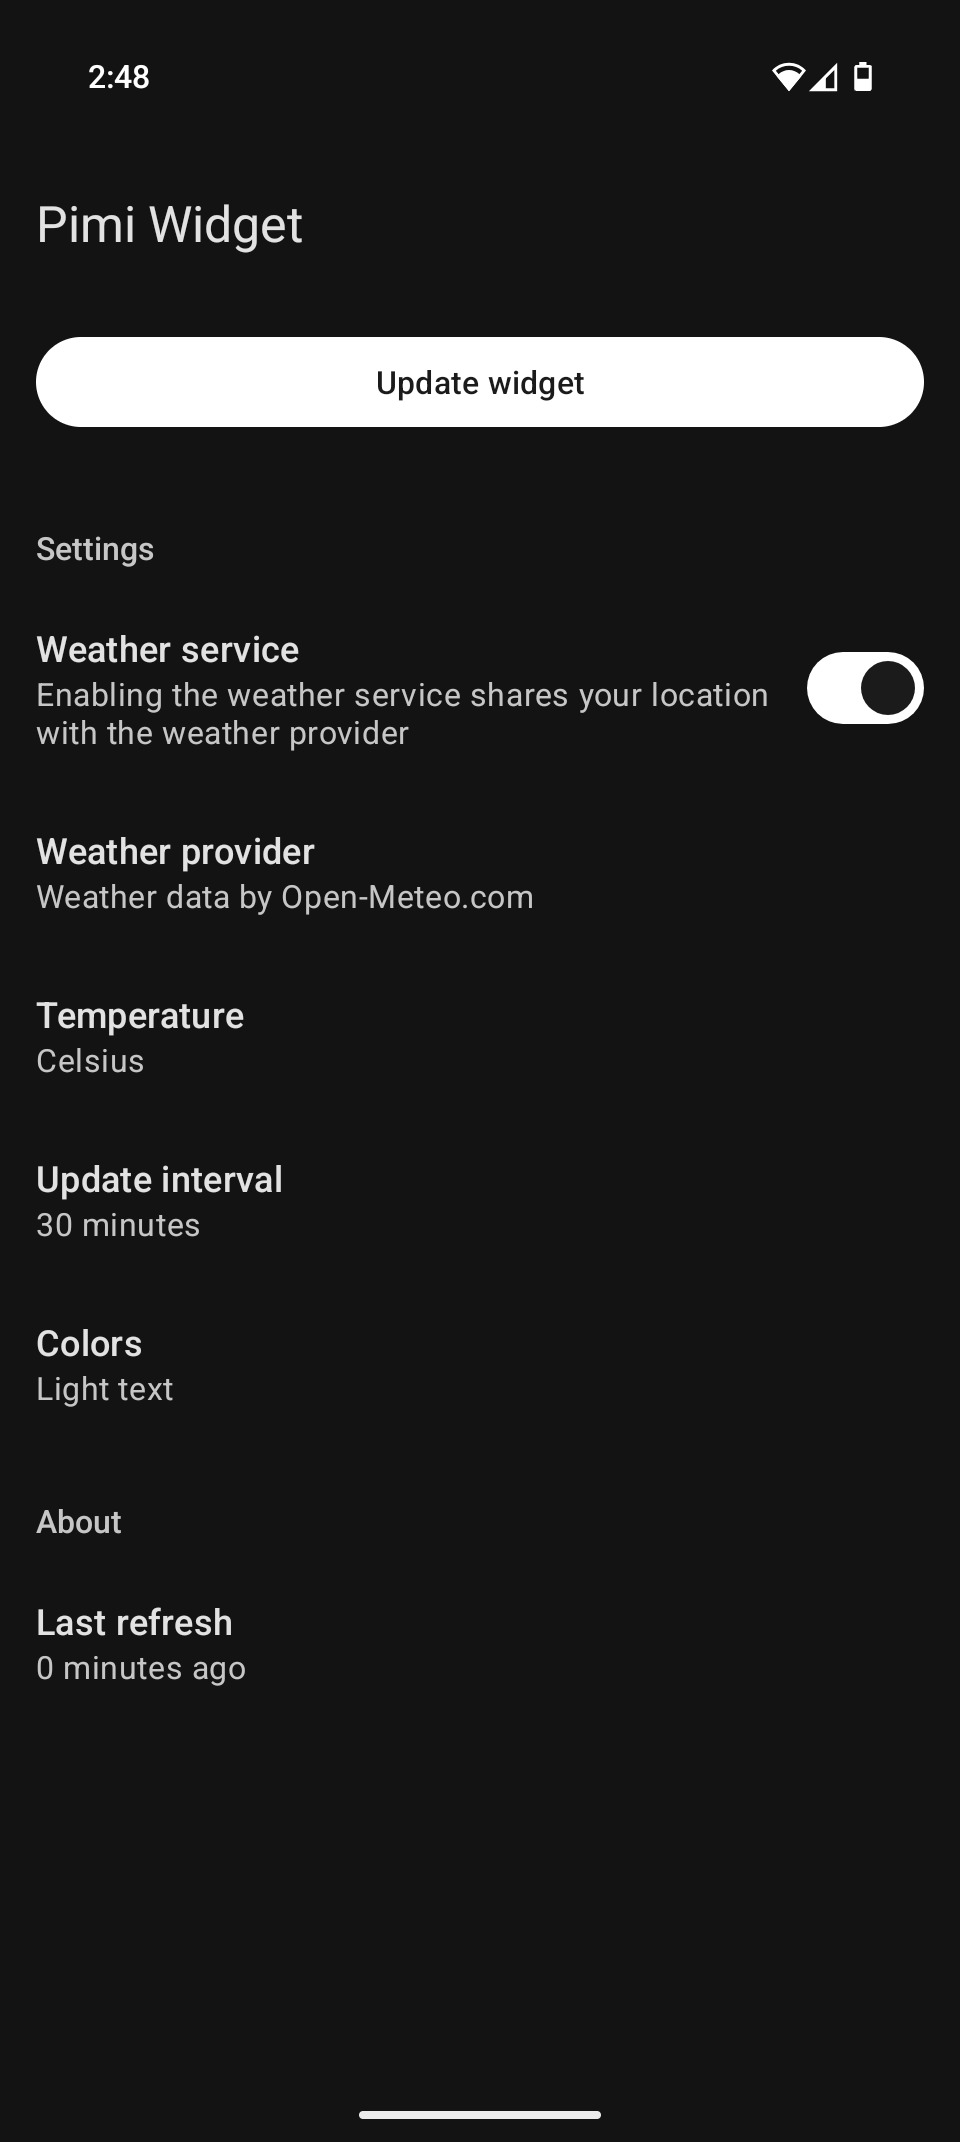
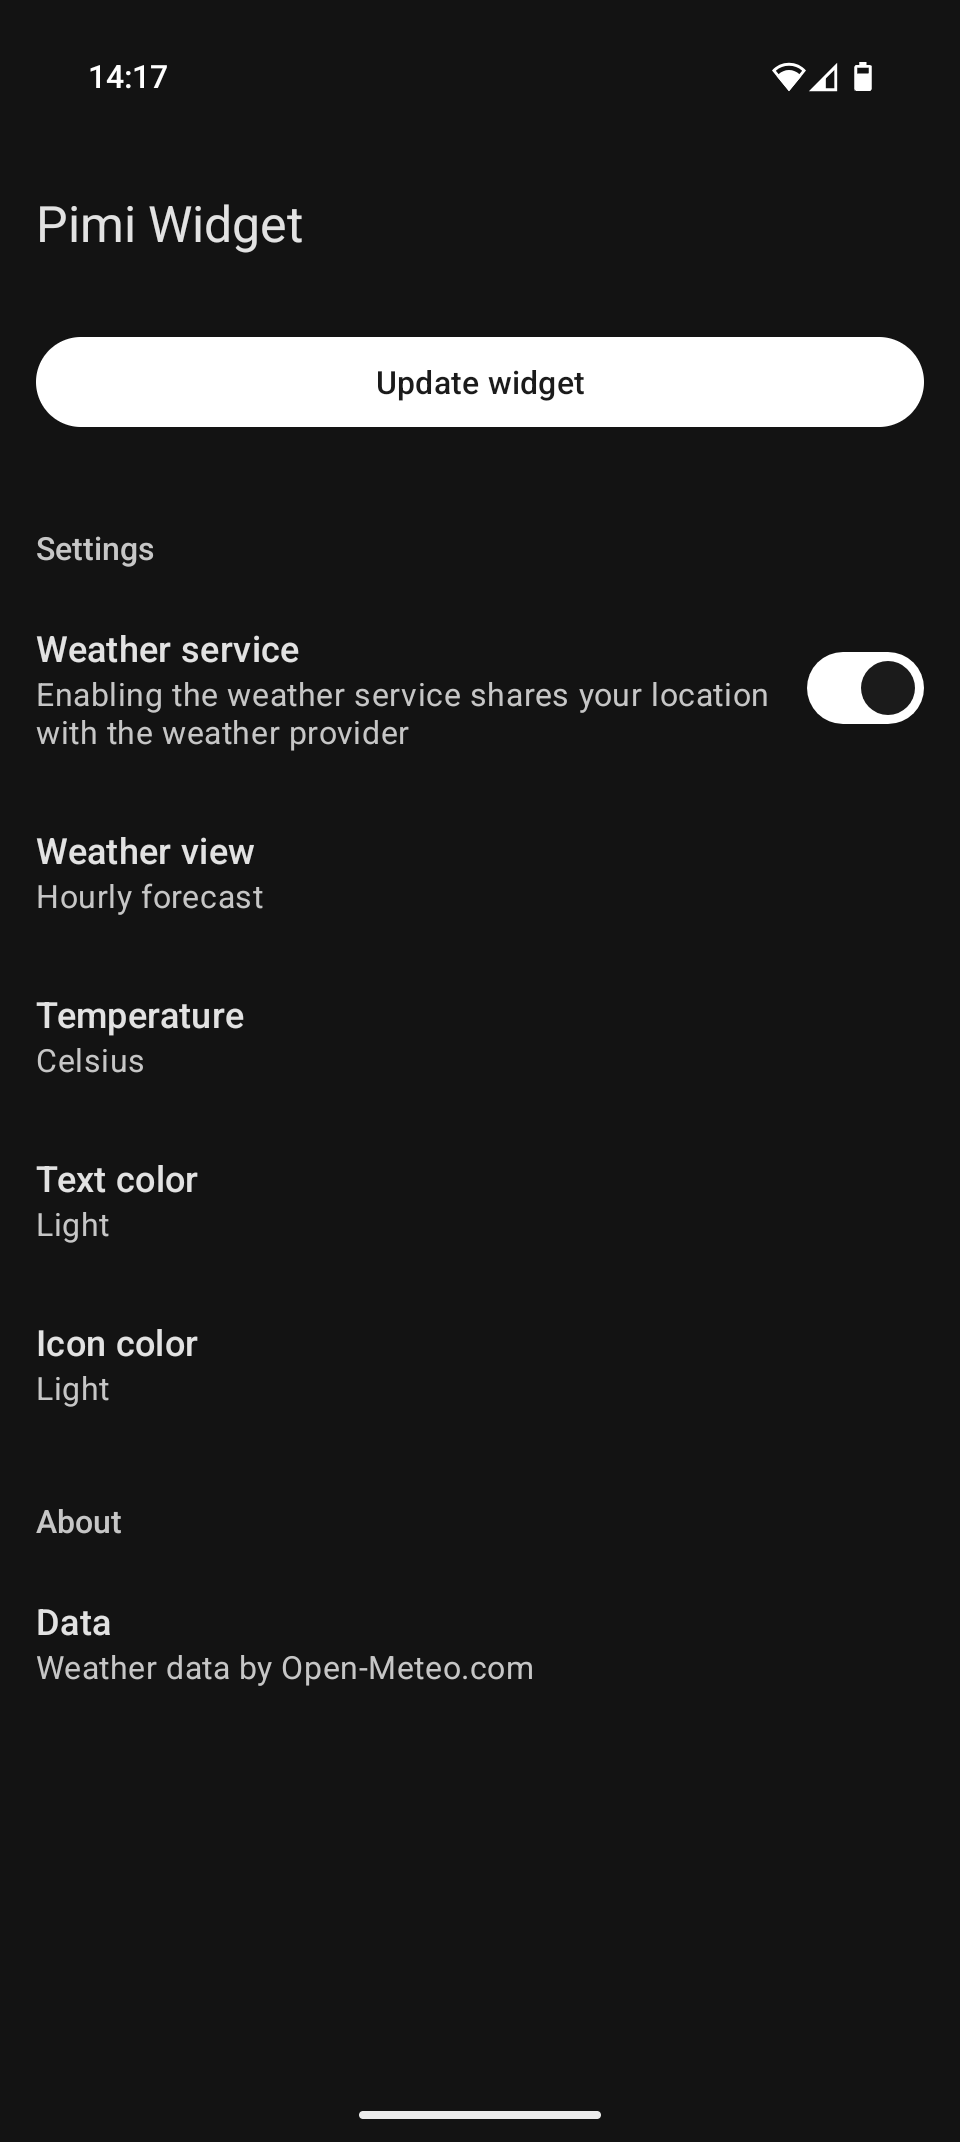
Update screenshots and documentation

diff --git a/README.md b/README.md
@@ -29,7 +29,7 @@ Normally, your home app should allow you to reconfigure the widget (e.g., by lon
 
 ### Weather Display
 
-If the widget cannot access your location or retrieve weather data for more than 120 minutes (e.g., while in airplane mode), it will disable the weather display until both location and internet access are available again. After a device reboot or app update, it may take 2–3 minutes for the widget to sync and display weather data.
+The widget displays the hourly weather forecast. If it cannot access your location or retrieve weather data for more than 180 minutes (e.g., while in airplane mode), it will disable the weather display until both location and internet access are available again. After a device reboot or app update, it may take 2–3 minutes for the widget to sync and display weather data.
 
 ### Location Access
 
@@ -43,7 +43,7 @@ Supported weather apps (among others): Google Weather, Breezy Weather.
 
 ### Further Troubleshooting
 
-If weather information does not appear, you can find debug information by tapping the **Last refresh** field in the widget configuration. Try the following actions based on the displayed status:
+If weather information does not appear, you can find debug information by tapping the **Data** field in the widget configuration. Try the following actions based on the displayed status:
 
 - **Location FAILED**: The widget could not retrieve your location. Ensure that location services are enabled on your device. See the Location Access section above.
 
